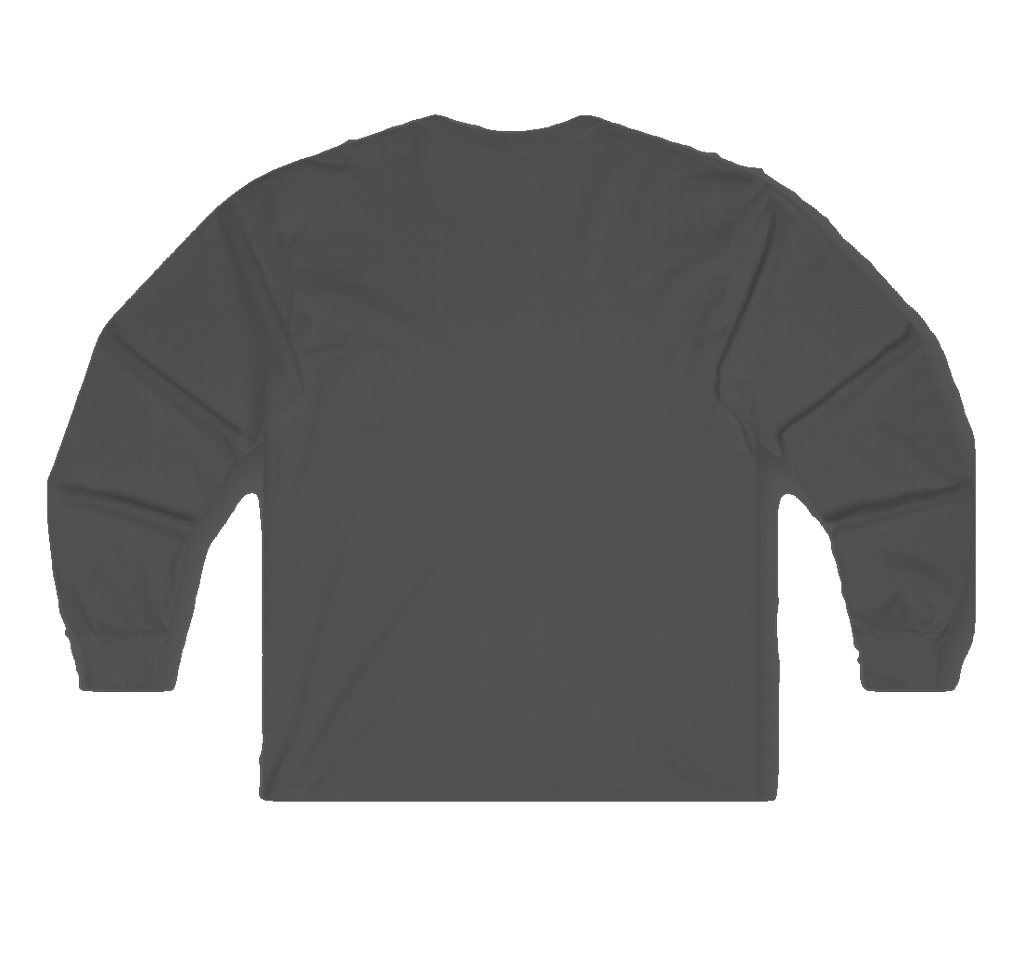
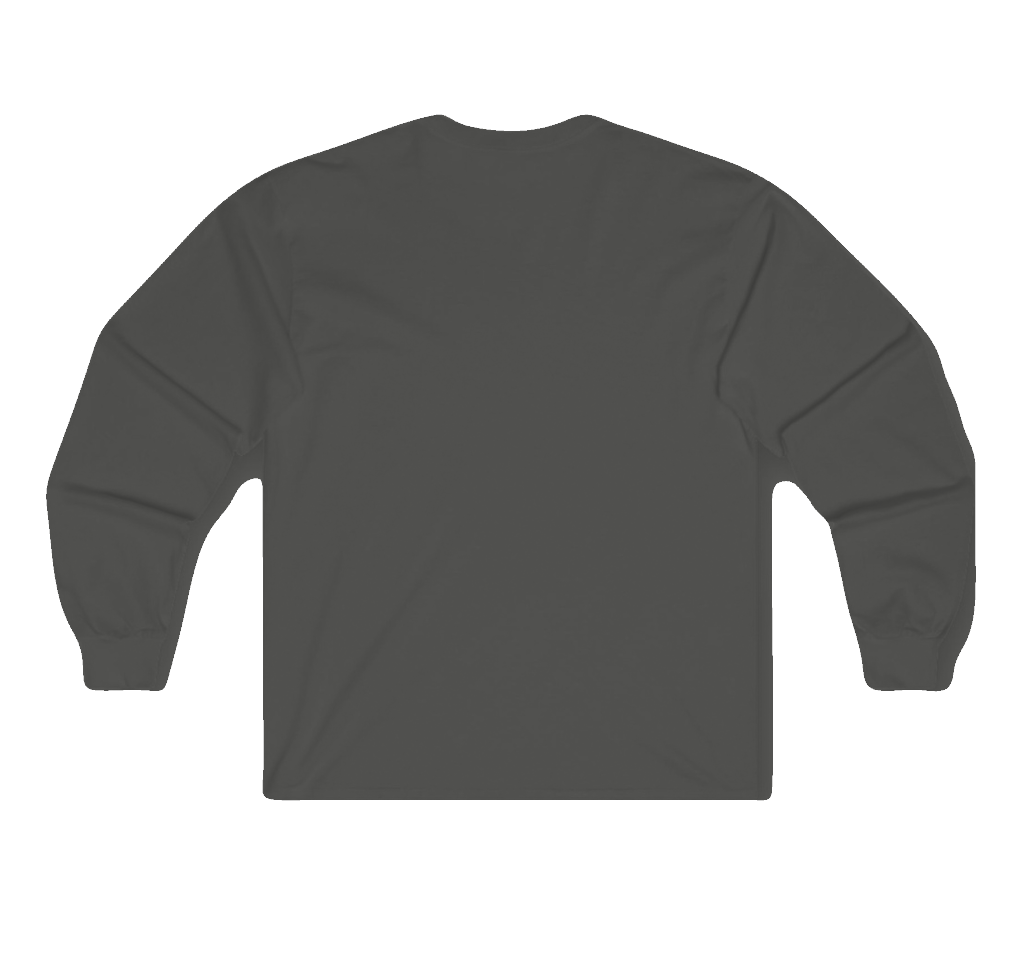
fix(mockup): smooth back long-sleeve contour via cubic B-spline and eliminate shadow puddle overflow

diff --git a/src/components/mockups/RealisticFlatLay.tsx b/src/components/mockups/RealisticFlatLay.tsx
@@ -613,7 +613,7 @@ export function RealisticLongSleeveFlatLay({
         viewBox={viewBox}
         fill="none"
         xmlns="http://www.w3.org/2000/svg"
-        className="w-full h-full max-h-[580px] drop-shadow-[0_18px_26px_rgba(0,0,0,0.06)]"
+        className="w-full h-full max-h-[580px] drop-shadow-[0_20px_28px_rgba(0,0,0,0.07)]"
       >
         <defs>
           <PrintTechniqueSvgDefs id={id} />
@@ -661,20 +661,6 @@ export function RealisticLongSleeveFlatLay({
             />
           </clipPath>
         </defs>
-
-        {/* Studio Floor Soft Contact Shadows (Subtle, authentic Printify standard) */}
-        <ellipse
-          cx="512"
-          cy="801"
-          rx="230"
-          ry="5"
-          fill="#000000"
-          opacity={0.05}
-          filter="blur(5px)"
-        />
-        {/* Left & Right Cuff Contact Shadows (Tight against wrists) */}
-        <ellipse cx="120" cy="690" rx="26" ry="4" fill="#000000" opacity={0.04} filter="blur(4px)" />
-        <ellipse cx="904" cy="690" rx="26" ry="4" fill="#000000" opacity={0.04} filter="blur(4px)" />
 
         {/* Photographic Long Sleeve Garment Blank (Pristine isolated photographic canvas) */}
         <image

diff --git a/scripts/build_full_studio_palette.py b/scripts/build_full_studio_palette.py
@@ -1,6 +1,7 @@
 import cv2
 import numpy as np
 import os
+from scipy import interpolate
 
 print("Building Master Studio Palette for Long Sleeve Tee (Front & Back)...")
 
@@ -73,6 +74,7 @@ S_front = np.clip(white_gray_f / 0.94, 0.04, 1.20)
 # ═══════════════════════════════════════════════════════════════════════════
 # 3. Extract mathematically pristine sub-pixel alpha mask for BACK
 #    Directly from authentic photographic back image media_1791825485756_c7d015f2.png
+#    Using Periodic Cubic B-Spline Contour & 2x Supersampled Area Anti-Aliasing
 # ═══════════════════════════════════════════════════════════════════════════
 diff_b = np.max(255 - im_back.astype(np.int32), axis=2).astype(np.float32)
 
@@ -85,8 +87,8 @@ diff_clean_b[:38, :] = 0.0
 diff_clean_b[:, :12] = 0.0
 diff_clean_b[:, 1012:] = 0.0
 
-# Solid fabric binary map with threshold 4.0
-fabric_bin_b = (diff_clean_b >= 4.0).astype(np.uint8)
+# Solid fabric binary map with threshold 7.0 (filters out faint drop-shadow noise while capturing 100% of fabric)
+fabric_bin_b = (diff_clean_b >= 7.0).astype(np.uint8)
 
 # Connected background flood fill from outer borders (preserves open underarm cavities!)
 flood_mask_b = np.zeros((h_b + 2, w_b + 2), np.uint8)
@@ -99,37 +101,16 @@ cv2.floodFill(flood_img_b, flood_mask_b, (w_b - 1, h_b - 1), 2)
 bg_connected_b = (flood_img_b == 2)
 garment_mask_b = (~bg_connected_b).astype(np.uint8)
 
-# Morphological clean
-kernel9 = cv2.getStructuringElement(cv2.MORPH_ELLIPSE, (9, 9))
-garment_clean_b = cv2.morphologyEx(garment_mask_b, cv2.MORPH_CLOSE, kernel9)
+# Morphological clean with 7x7 ellipse
+kernel7 = cv2.getStructuringElement(cv2.MORPH_ELLIPSE, (7, 7))
+garment_clean_b = cv2.morphologyEx(garment_mask_b, cv2.MORPH_CLOSE, kernel7)
 
-# Extract largest garment contour & smooth with 1D Gaussian kernel (k_size=21, sigma=4.0)
+# Extract largest garment contour
 contours_b, _ = cv2.findContours(garment_clean_b, cv2.RETR_EXTERNAL, cv2.CHAIN_APPROX_NONE)
 c_max_b = max(contours_b, key=cv2.contourArea)
 
-pts_b = c_max_b.reshape(-1, 2).astype(np.float32)
-k_size = 21
-pad = k_size // 2
-pts_padded_b = np.vstack([pts_b[-pad:], pts_b, pts_b[:pad]])
-kernel_1d = cv2.getGaussianKernel(k_size, 4.0).flatten()
-smoothed_pts_b = np.zeros_like(pts_b)
-for i in range(2):
-    smoothed_pts_b[:, i] = np.convolve(pts_padded_b[:, i], kernel_1d, mode='valid')
-
-smoothed_contour_b = smoothed_pts_b.reshape(-1, 1, 2).astype(np.int32)
-
-smooth_mask_b = np.zeros((h_b, w_b), dtype=np.uint8)
-cv2.drawContours(smooth_mask_b, [smoothed_contour_b], -1, 1, thickness=cv2.FILLED)
-
-# Signed distance field for sub-pixel anti-aliased edge
-dist_in_b = cv2.distanceTransform(smooth_mask_b, cv2.DIST_L2, 5)
-dist_out_b = cv2.distanceTransform(1 - smooth_mask_b, cv2.DIST_L2, 5)
-sdf_b = dist_in_b - dist_out_b
-
-raw_alpha_b = np.clip(sdf_b / 1.0 + 0.5, 0.0, 1.0).astype(np.float32)
-
 # Garment bounding box for scaling
-x_min_b, y_min_b, w_box_b, h_box_b = cv2.boundingRect(smoothed_contour_b)
+x_min_b, y_min_b, w_box_b, h_box_b = cv2.boundingRect(c_max_b)
 
 # Scale & Align to Master 1024 x 953 Canvas
 scale_b = 929.0 / float(w_box_b)
@@ -137,14 +118,12 @@ scaled_w_b = int(round(w_b * scale_b))
 scaled_h_b = int(round(h_b * scale_b))
 
 im_b_scaled = cv2.resize(im_back, (scaled_w_b, scaled_h_b), interpolation=cv2.INTER_LANCZOS4)
-alpha_b_scaled = cv2.resize(raw_alpha_b, (scaled_w_b, scaled_h_b), interpolation=cv2.INTER_LANCZOS4)
 
 center_x_b_scaled = (x_min_b + w_box_b / 2.0) * scale_b
 offset_x_b = int(round(512.0 - center_x_b_scaled))
 offset_y_b = int(round(114.0 - y_min_b * scale_b))
 
 master_back_rgb = np.full((h_w, w_w, 3), 255, dtype=np.uint8)
-master_back_alpha = np.zeros((h_w, w_w), dtype=np.float32)
 
 src_bx1 = max(0, -offset_x_b)
 src_bx2 = min(scaled_w_b, w_w - offset_x_b)
@@ -157,17 +136,38 @@ dst_by1 = max(0, offset_y_b)
 dst_by2 = dst_by1 + (src_by2 - src_by1)
 
 master_back_rgb[dst_by1:dst_by2, dst_bx1:dst_bx2] = im_b_scaled[src_by1:src_by2, src_bx1:src_bx2]
-master_back_alpha[dst_by1:dst_by2, dst_bx1:dst_bx2] = alpha_b_scaled[src_by1:src_by2, src_bx1:src_bx2]
 
-# Clean borders
-master_back_alpha[master_back_alpha < 0.03] = 0.0
+# Map contour vertices directly into Master Canvas coordinates
+pts = c_max_b.reshape(-1, 2).astype(np.float64)
+pts_master = np.zeros_like(pts)
+pts_master[:, 0] = pts[:, 0] * scale_b + offset_x_b
+pts_master[:, 1] = pts[:, 1] * scale_b + offset_y_b
+
+# Sub-sample for B-spline parameterization (step 4 gives optimal knot density)
+sub_pts = pts_master[::4]
+x_knots = np.append(sub_pts[:, 0], sub_pts[0, 0])
+y_knots = np.append(sub_pts[:, 1], sub_pts[0, 1])
+
+# Periodic cubic B-spline interpolation (s=250.0 eliminates discrete stair-stepping while preserving 100% natural curves)
+tck, u = interpolate.splprep([x_knots, y_knots], s=250.0, per=True)
+u_eval = np.linspace(0, 1, 4000)
+x_eval, y_eval = interpolate.splev(u_eval, tck)
+smooth_contour_master = np.column_stack([x_eval, y_eval])
+
+# 2x Supersampled analytic polygon rasterization + cv2.INTER_AREA downsampling (zero Gibbs ringing!)
+mask_2x = np.zeros((h_w * 2, w_w * 2), dtype=np.uint8)
+contour_2x = (smooth_contour_master * 2.0).astype(np.int32).reshape(-1, 1, 2)
+cv2.drawContours(mask_2x, [contour_2x], -1, 255, thickness=cv2.FILLED)
+
+master_back_alpha = cv2.resize(mask_2x, (w_w, h_w), interpolation=cv2.INTER_AREA).astype(np.float32) / 255.0
+
+# Precision clamp: strictly 0.0 outside garment bounds
+master_back_alpha[master_back_alpha < 0.02] = 0.0
 master_back_alpha[:100, :] = 0.0
-master_back_alpha[802:, :] = 0.0
+master_back_alpha[803:, :] = 0.0
 master_back_alpha[:, :40] = 0.0
 master_back_alpha[:, 984:] = 0.0
 
-master_back_alpha = cv2.GaussianBlur(master_back_alpha, (3, 3), 0.4)
-master_back_alpha[master_back_alpha < 0.02] = 0.0
 
 white_gray_b = cv2.cvtColor(master_back_rgb, cv2.COLOR_BGR2GRAY).astype(np.float32) / 255.0
 S_back = np.clip(white_gray_b / 0.94, 0.04, 1.20)
